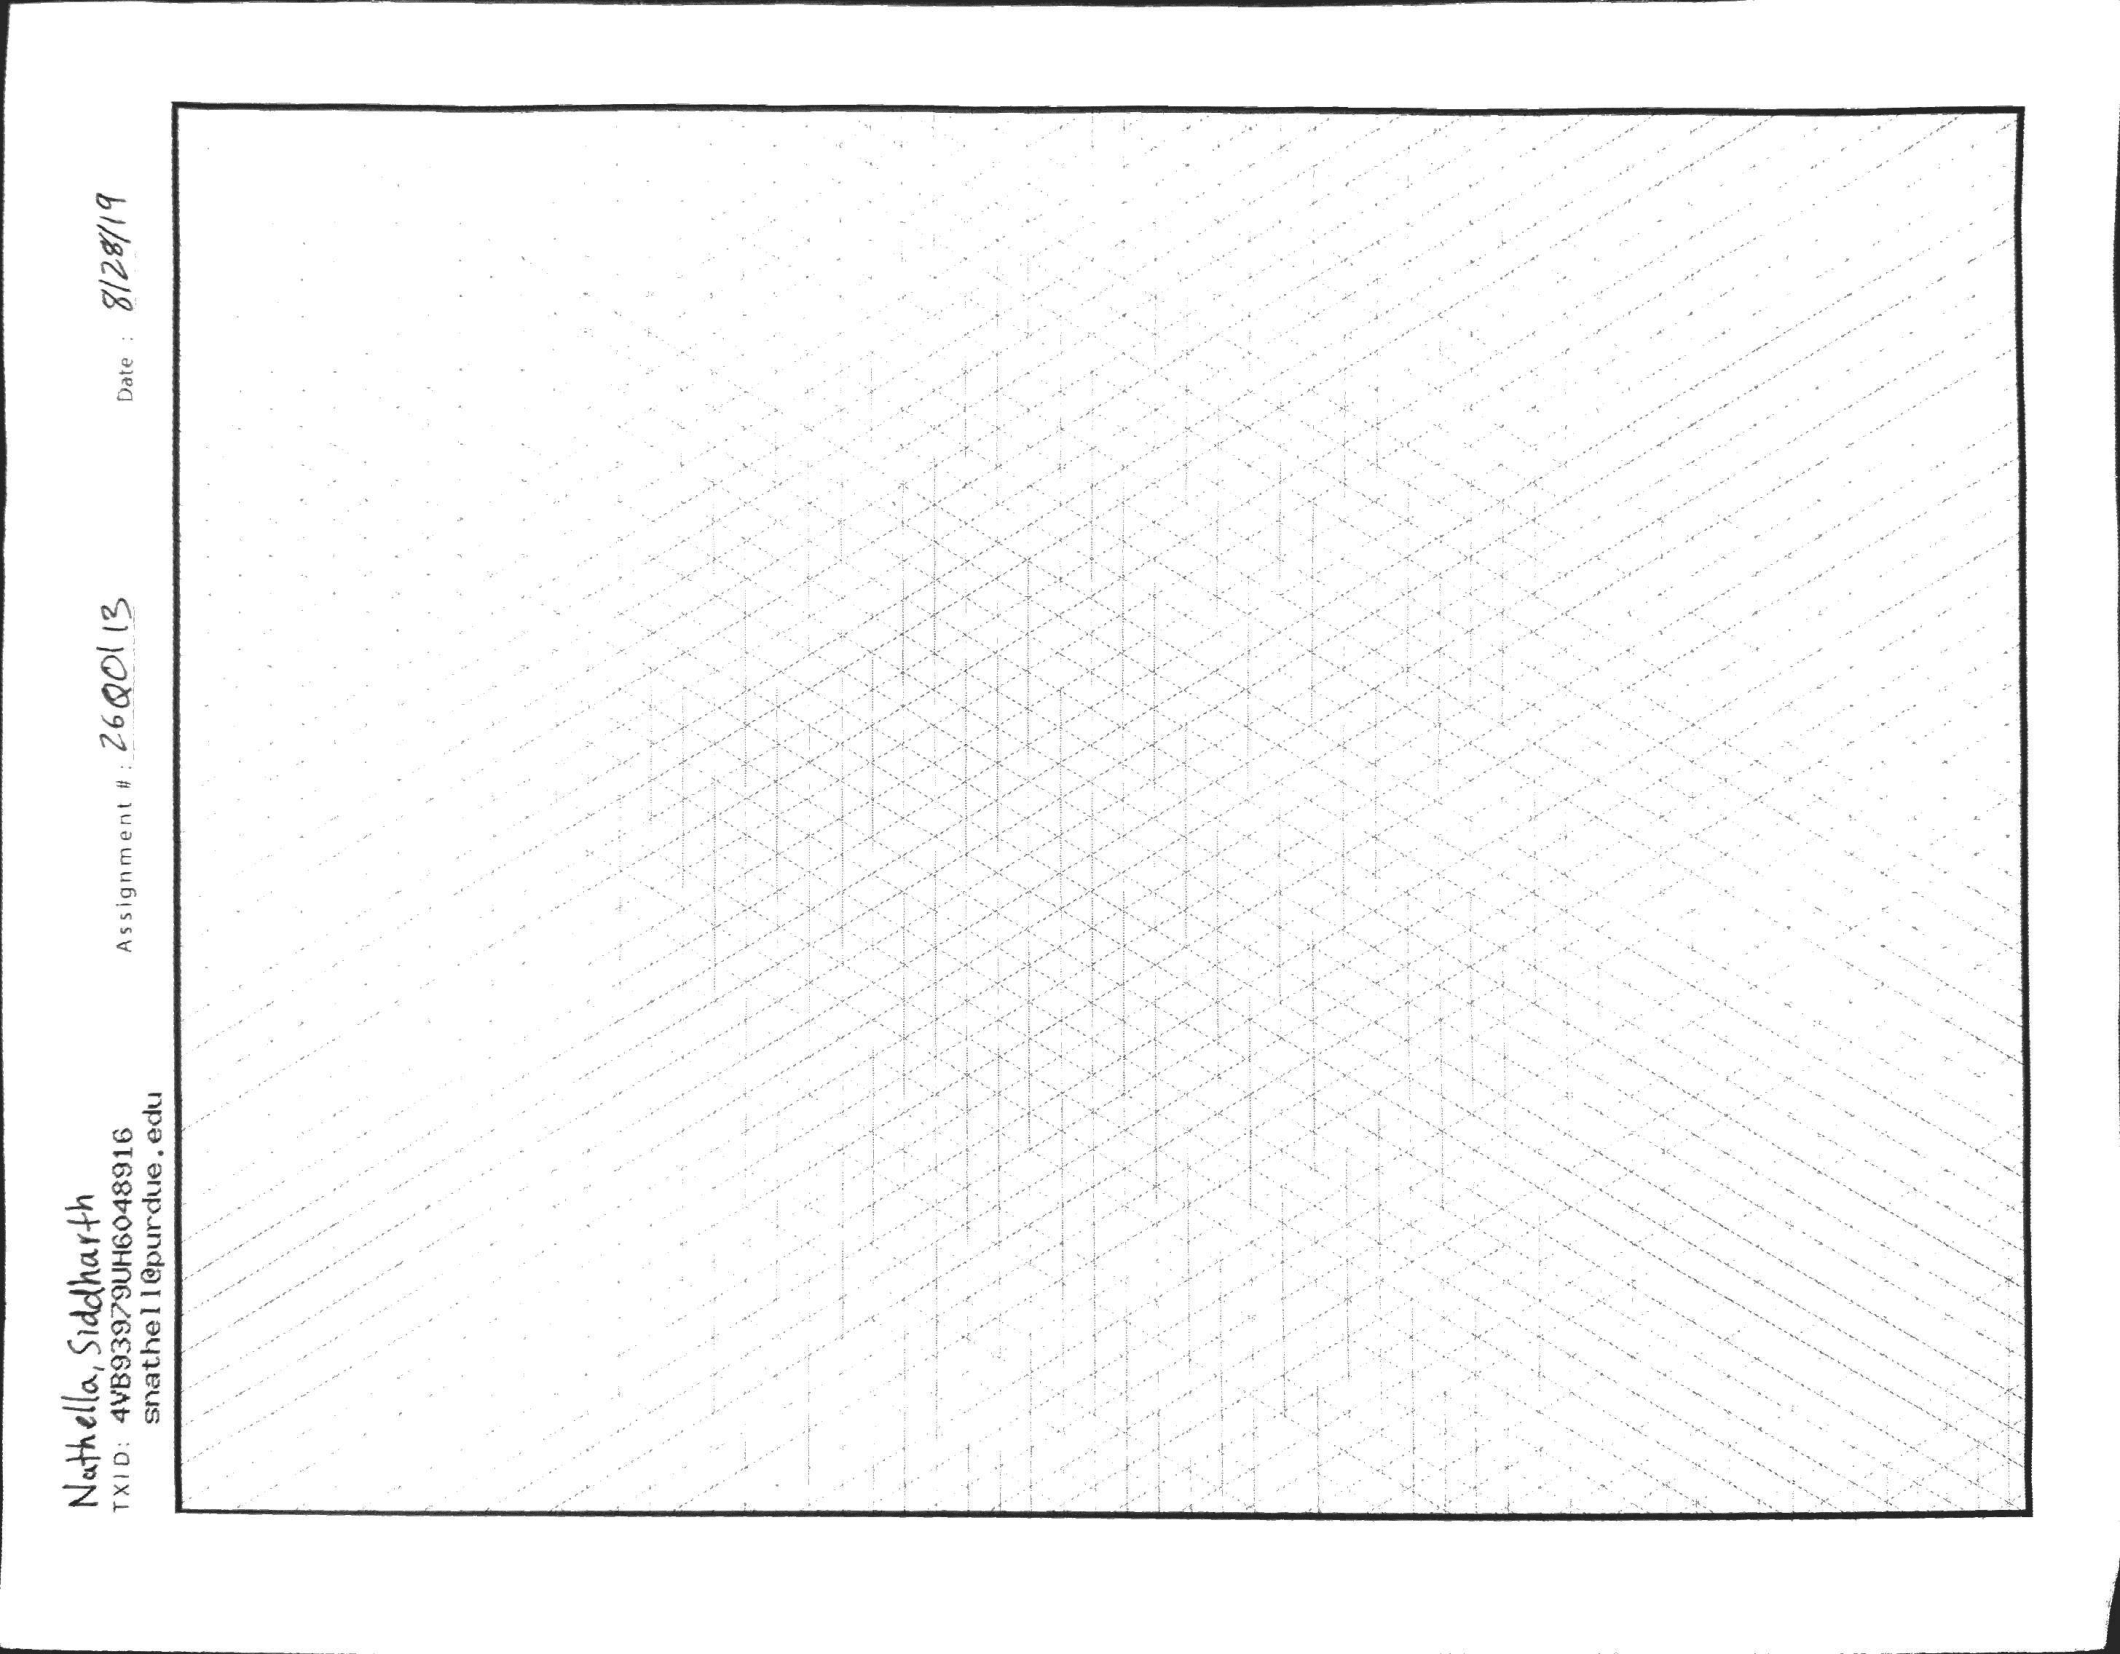
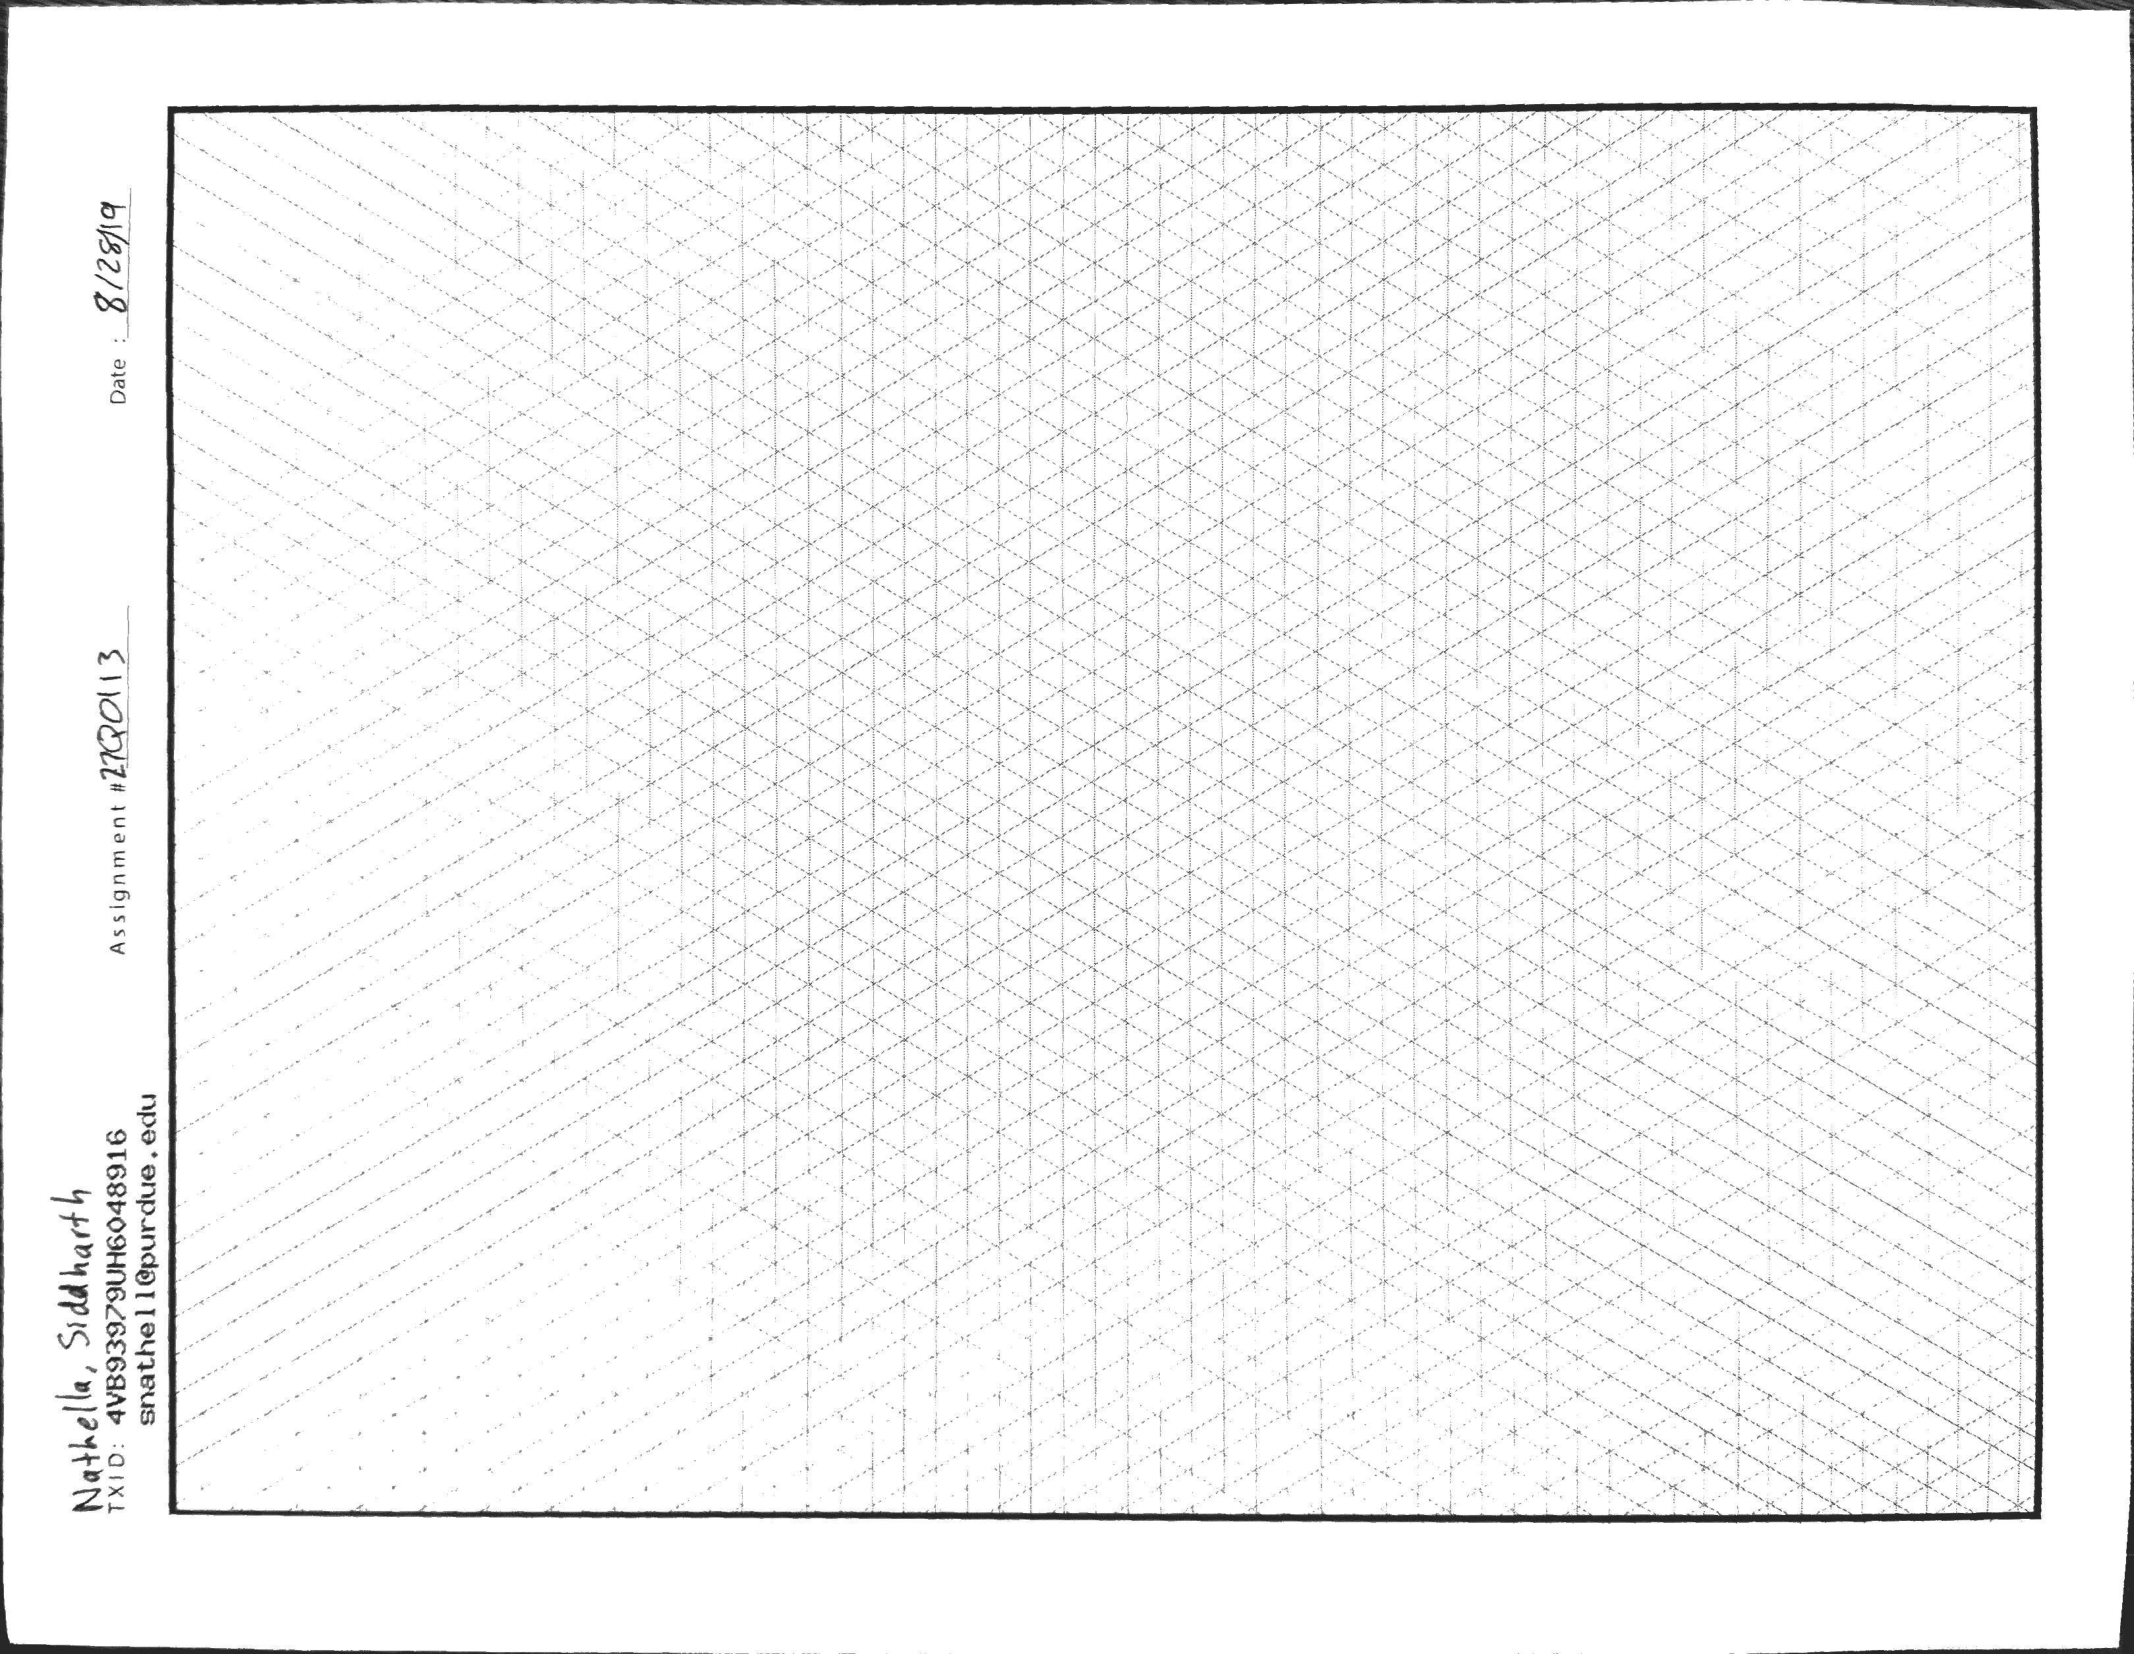
Added Quizes and General Info

diff --git a/q1.html b/q1.html
@@ -2,7 +2,7 @@
 <html lang="zxx">
 
 <head>
-  <meta charset="utf-8"><title>Quiz title1 - September 14, 2019</title>
+  <meta charset="utf-8"><title>Quiz 27Q0113 - 8/28/19</title>
 
   <!-- mobile responsive meta -->
   <meta name="viewport" content="width=device-width, initial-scale=1">
@@ -32,7 +32,7 @@
   <link rel="icon" href="images/favicon.png" type="image/x-icon">
 </head>
 <body>
-  
+ 
 
 <!-- preloader start -->
 <div class="preloader">
@@ -46,7 +46,7 @@
     <!-- nav bar -->
     <div class="navigation">
         <div class="container">
-            <nav class="navbar navbar-expand-lg navbar-light bg-light">
+            <nav class="navbar navbar-expand-lg navbar-light bg-light center">
 
                 <button class="navbar-toggler" type="button" data-toggle="collapse" data-target="#navbarSupportedContent" aria-controls="navbarSupportedContent"
                     aria-expanded="false" aria-label="Toggle navigation">
@@ -59,19 +59,19 @@
                         <!-- TODO COME BACK HERE! -->
   
                         <li class="nav-item">
-                            <a class="nav-link" href="information.html">Information</a>
+                            <a class="nav-link btn" href="information.html">Information</a>
                         </li>
                         
                         <li class="nav-item">
-                            <a class="nav-link" href="a1.html">Assignments</a>
+                            <a class="nav-link btn" href="aLP01.html">Assignments</a>
                         </li>
                         
                         <li class="nav-item">
-                            <a class="nav-link" href="q1.html">Quizzes</a>
+                            <a class="nav-link btn" href="q1.html">Quizzes</a>
                         </li>
                         
                         <li class="nav-item">
-                            <a class="nav-link" href="final_project.html">Final Project</a>
+                            <a class="nav-link btn" href="final_project.html">Final Project</a>
                         </li>
                         <li class="nav-item">
                             <a class="nav-link btn btn-primary btn-sm" href="index.html">Cover Page</a>
@@ -87,9 +87,10 @@
     
 <!-- blog single -->
 <section>
-    <div><h1 style="color:black;text-align:center;">title1 - September 14, 2019</h1>
+    <div><h1 style="color:black;text-align:center;">27Q0113 - 8/28/19</h1>
 	</div>
-<img src="images/project_1/sidd_1.png" alt="" class="center">
+<img src="images/quiz1/27Q0113_front.png" alt="" class="center">
+<img src="images/quiz1/27Q0113_back.png" alt="" class="center">
 </section>
 <!-- /blog-single -->
 
@@ -104,8 +105,7 @@
                     <p class="text-lg-left"></p>
                 </div>
                 <div class="col-md-6">
-                    <p class="text-lg-right"><a href="q2.html" style="color:white;" class="fa fa-angle-right fa-5x"></a>
-</p>
+                    <p class="text-lg-right"></p>
                 </div>
             </div>
         </div>

diff --git a/information.html b/information.html
@@ -90,7 +90,15 @@
     <div>
         <h1 style="color:black;text-align:center;">General Information</h1>
 </div>
-<img src="images/general_information/1.png" alt="" class="center">
+    <img src="images/general_information/general_info 2.png" alt="" class="center">
+    <img src="images/general_information/general_info 3.png" alt="" class="center">
+    <img src="images/general_information/general_info 4.png" alt="" class="center">
+    <img src="images/general_information/general_info 5.png" alt="" class="center">
+    <img src="images/general_information/general_info 6.png" alt="" class="center">
+    <img src="images/general_information/general_info 7.png" alt="" class="center">
+    <img src="images/general_information/general_info 8.png" alt="" class="center">
+    <img src="images/general_information/general_info 9.png" alt="" class="center">
+
     
     
     <!-- COPY THE ABOVE LINE AND TAKE PICTURES OF YOUR SYLLABUS AND STUFF -->
